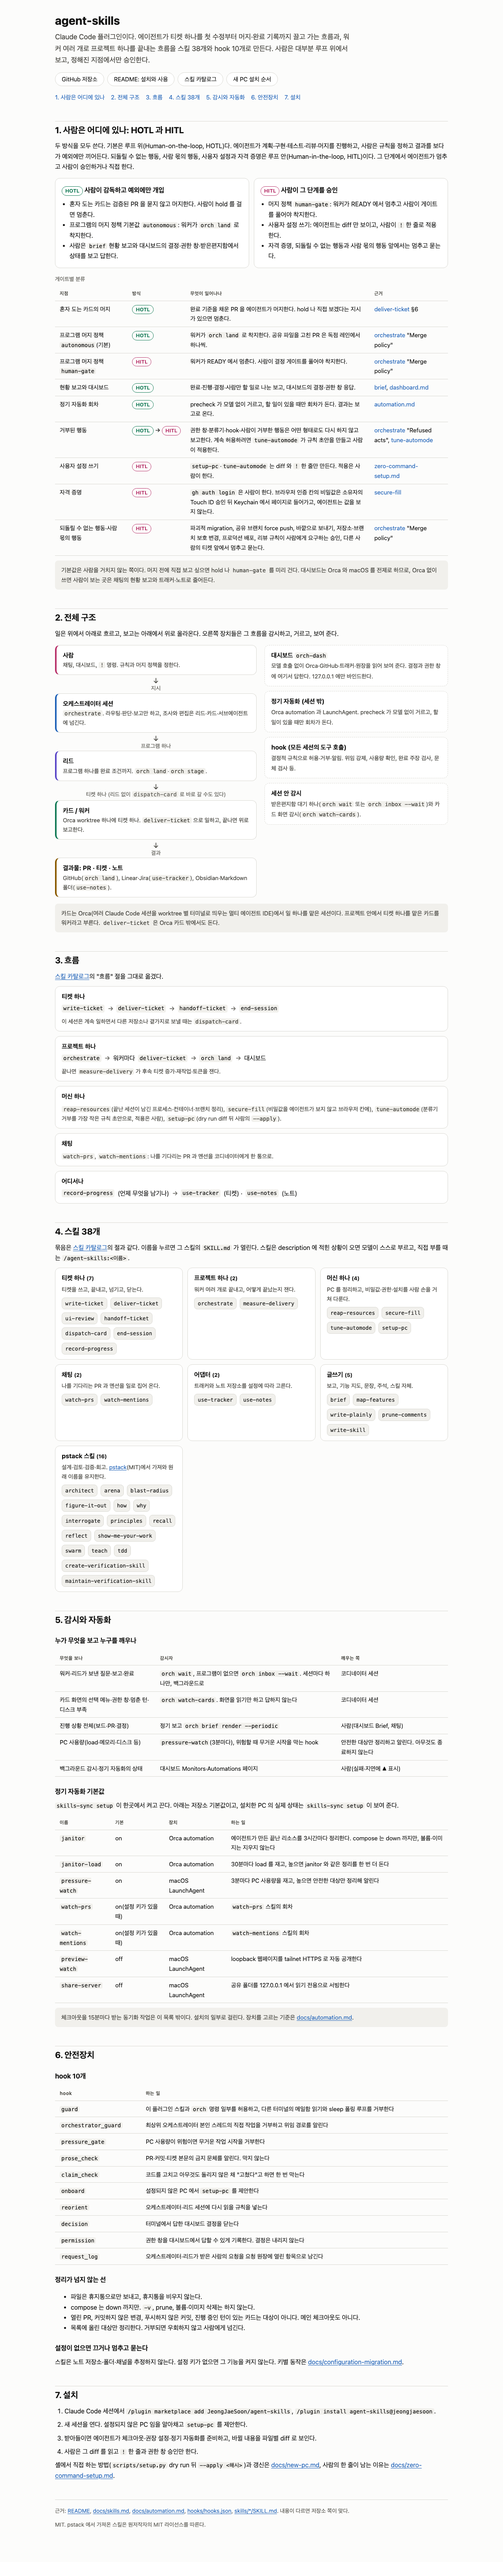
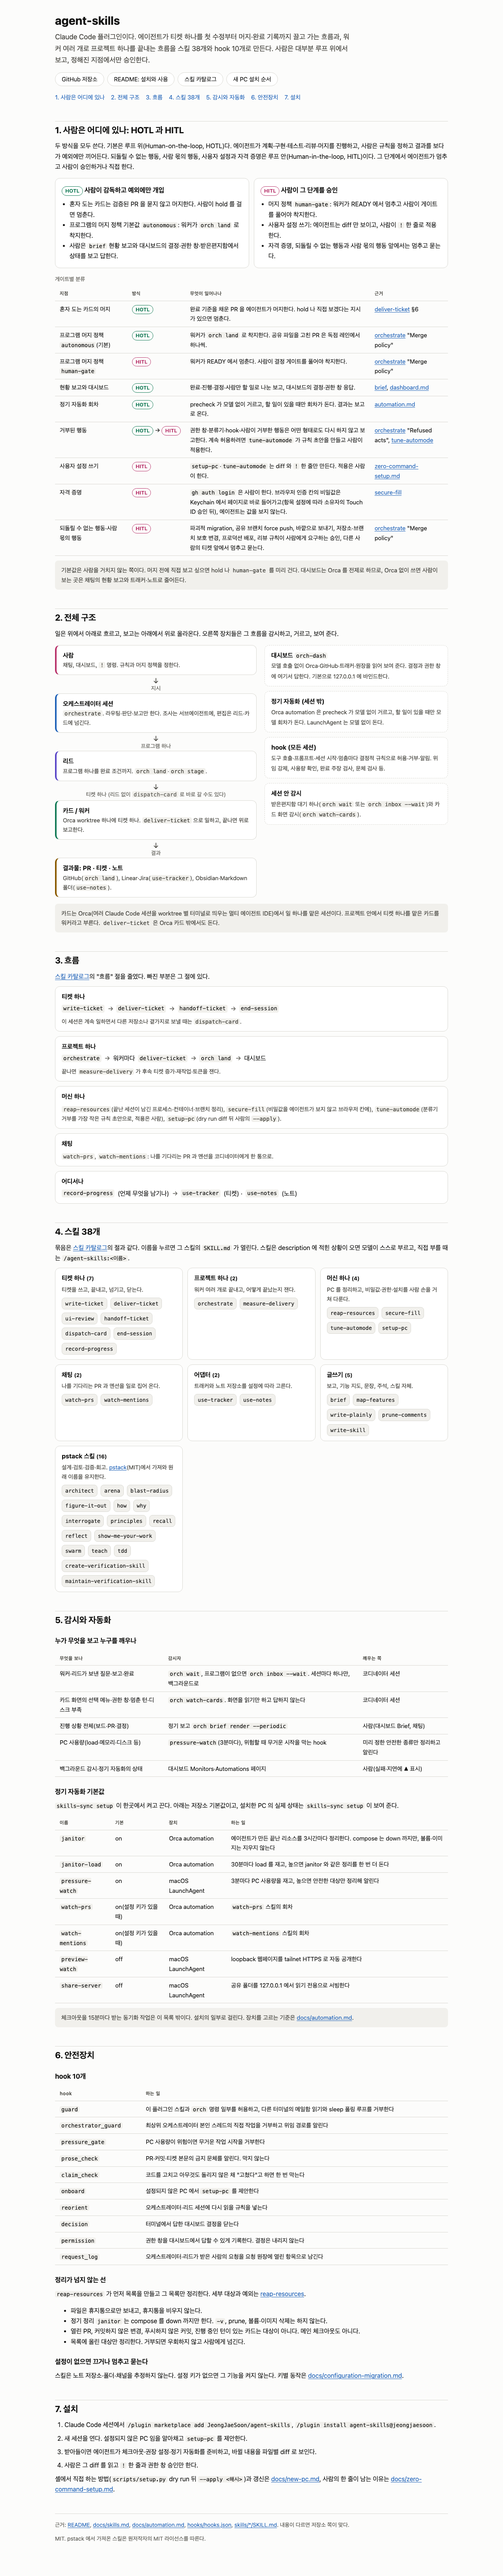
docs(landing): 독립 리뷰 지적을 반영한다
정리 금지선을 janitor 범위로 좁히고, 근거와 다른 문장(pressure 종료, 흐름 절, 오케스트레이터 위임,
대시보드 바인드·macOS 전제, secure-fill 승인, hook 시점, precheck 범위)을 고친다. 다크 테마 대비 때문에
표 안 링크 밑줄을 되돌리고, 흐름 화살표 라벨을 스크린리더에 드러낸다. 라이트 스크린샷을 다시 찍는다.

diff --git a/docs/index.html b/docs/index.html
@@ -38,8 +38,8 @@ code{font:14px/1.4 ui-monospace,SFMono-Regular,Menlo,Consolas,monospace;backgrou
 .links{display:flex;flex-wrap:wrap;gap:8px;margin:0 0 8px;padding:0;list-style:none}
 .links a{display:inline-block;text-decoration:none;border:1px solid var(--line);border-radius:999px;padding:4px 16px;background:var(--card);color:var(--ink);font-size:15px}
 .links a:hover{border-color:var(--accent);color:var(--accent)}
-nav.toc a,td a{text-decoration:none}
-nav.toc a:hover,td a:hover,nav.toc a:focus-visible,td a:focus-visible{text-decoration:underline}
+nav.toc a{text-decoration:none}
+nav.toc a:hover,nav.toc a:focus-visible{text-decoration:underline}
 nav.toc ol{display:flex;flex-wrap:wrap;gap:8px 16px;margin:16px 0 0;padding:0;list-style:none;font-size:15px}
 .note{background:var(--soft);border-radius:8px;padding:12px 16px;color:var(--ink2);font-size:15px;margin:12px 0}
 
@@ -63,7 +63,7 @@ td.kind{white-space:nowrap}
 .node b{display:block;font-size:16px}
 .node span{display:block;color:var(--ink2);font-size:14.5px}
 .arrow{color:var(--muted);text-align:center;font-size:14px;line-height:1.2;padding:4px 0}
-.arrow::before{content:"↓";display:block;font-size:18px;color:var(--ink2)}
+.arrow::before{content:"↓" / "";display:block;font-size:18px;color:var(--ink2)}
 .side{display:flex;flex-direction:column;gap:12px;margin:0;padding:0;list-style:none}
 .side li{background:var(--card);border:1px dashed var(--line);border-radius:12px;padding:12px 16px}
 .side b{display:block}
@@ -171,12 +171,12 @@ footer{color:var(--muted);font-size:14px;margin-top:48px;border-top:1px solid va
 <tr><td>정기 자동화 회차</td><td class="kind"><span class="tag hotl">HOTL</span></td><td>precheck 가 모델 없이 거르고, 할 일이 있을 때만 회차가 돈다. 결과는 보고로 온다.</td><td><a href="https://github.com/JeongJaeSoon/agent-skills/blob/main/docs/automation.md">automation.md</a></td></tr>
 <tr><td>거부된 행동</td><td class="kind"><span class="tag hotl">HOTL</span> → <span class="tag hitl">HITL</span></td><td>권한 창·분류기·hook·사람이 거부한 행동은 어떤 형태로도 다시 하지 않고 보고한다. 계속 허용하려면 <code>tune-automode</code> 가 규칙 초안을 만들고 사람이 적용한다.</td><td><a href="https://github.com/JeongJaeSoon/agent-skills/blob/main/skills/orchestrate/SKILL.md">orchestrate</a> "Refused acts", <a href="https://github.com/JeongJaeSoon/agent-skills/blob/main/skills/tune-automode/SKILL.md">tune-automode</a></td></tr>
 <tr><td>사용자 설정 쓰기</td><td class="kind"><span class="tag hitl">HITL</span></td><td><code>setup-pc</code>·<code>tune-automode</code> 는 diff 와 <code title="Claude Code 입력칸에서 ! 로 시작하는 줄: 사람이 그 세션에서 셸 명령을 직접 실행한다">!</code> 한 줄만 만든다. 적용은 사람이 한다.</td><td><a href="https://github.com/JeongJaeSoon/agent-skills/blob/main/docs/zero-command-setup.md">zero-command-setup.md</a></td></tr>
-<tr><td>자격 증명</td><td class="kind"><span class="tag hitl">HITL</span></td><td><code>gh auth login</code> 은 사람이 한다. 브라우저 인증 칸의 비밀값은 소유자의 Touch ID 승인 뒤 Keychain 에서 페이지로 들어가고, 에이전트는 값을 보지 않는다.</td><td><a href="https://github.com/JeongJaeSoon/agent-skills/blob/main/skills/secure-fill/SKILL.md">secure-fill</a></td></tr>
+<tr><td>자격 증명</td><td class="kind"><span class="tag hitl">HITL</span></td><td><code>gh auth login</code> 은 사람이 한다. 브라우저 인증 칸의 비밀값은 Keychain 에서 페이지로 바로 들어가고(항목 설정에 따라 소유자의 Touch ID 승인 뒤), 에이전트는 값을 보지 않는다.</td><td><a href="https://github.com/JeongJaeSoon/agent-skills/blob/main/skills/secure-fill/SKILL.md">secure-fill</a></td></tr>
 <tr><td>되돌릴 수 없는 행동·사람 몫의 행동</td><td class="kind"><span class="tag hitl">HITL</span></td><td>파괴적 migration, 공유 브랜치 force push, 바깥으로 보내기, 저장소·브랜치 보호 변경, 프로덕션 배포, 리뷰 규칙이 사람에게 요구하는 승인, 다른 사람의 티켓 앞에서 멈추고 묻는다.</td><td><a href="https://github.com/JeongJaeSoon/agent-skills/blob/main/skills/orchestrate/SKILL.md">orchestrate</a> "Merge policy"</td></tr>
 </tbody>
 </table>
 </div>
-<p class="note">기본값은 사람을 거치지 않는 쪽이다. 머지 전에 직접 보고 싶으면 hold 나 <code>human-gate</code> 를 미리 건다. 대시보드는 Orca 와 macOS 를 전제로 하므로, Orca 없이 쓰면 사람이 보는 곳은 채팅의 현황 보고와 트래커·노트로 줄어든다.</p>
+<p class="note">기본값은 사람을 거치지 않는 쪽이다. 머지 전에 직접 보고 싶으면 hold 나 <code>human-gate</code> 를 미리 건다. 대시보드는 Orca 를 전제로 하므로, Orca 없이 쓰면 사람이 보는 곳은 채팅의 현황 보고와 트래커·노트로 줄어든다.</p>
 </section>
 
 <section aria-labelledby="arch">
@@ -185,19 +185,19 @@ footer{color:var(--muted);font-size:14px;margin-top:48px;border-top:1px solid va
 <div class="arch">
   <ol class="chain" aria-label="일이 흐르는 순서">
     <li class="node" style="--c:var(--c-human)"><b>사람</b><span>채팅, 대시보드, <code title="Claude Code 입력칸에서 ! 로 시작하는 줄: 사람이 그 세션에서 셸 명령을 직접 실행한다">!</code> 명령. 규칙과 머지 정책을 정한다.</span></li>
-    <li class="arrow" aria-hidden="true">지시</li>
-    <li class="node" style="--c:var(--c-orch)"><b>오케스트레이터 세션</b><span><code>orchestrate</code>. 라우팅·판단·보고만 하고, 조사와 편집은 리드·카드·서브에이전트에 넘긴다.</span></li>
-    <li class="arrow" aria-hidden="true">프로그램 하나</li>
+    <li class="arrow">지시</li>
+    <li class="node" style="--c:var(--c-orch)"><b>오케스트레이터 세션</b><span><code>orchestrate</code>. 라우팅·판단·보고만 한다. 조사는 서브에이전트에, 편집은 리드·카드에 넘긴다.</span></li>
+    <li class="arrow">프로그램 하나</li>
     <li class="node" style="--c:var(--c-lead)"><b>리드</b><span>프로그램 하나를 완료 조건까지. <code>orch land</code>·<code>orch stage</code>.</span></li>
-    <li class="arrow" aria-hidden="true">티켓 하나 (리드 없이 <code>dispatch-card</code> 로 바로 갈 수도 있다)</li>
+    <li class="arrow">티켓 하나 (리드 없이 <code>dispatch-card</code> 로 바로 갈 수도 있다)</li>
     <li class="node" style="--c:var(--c-card)"><b>카드 / 워커</b><span>Orca worktree 하나에 티켓 하나. <code>deliver-ticket</code> 으로 일하고, 끝나면 위로 보고한다.</span></li>
-    <li class="arrow" aria-hidden="true">결과</li>
+    <li class="arrow">결과</li>
     <li class="node" style="--c:var(--c-out)"><b>결과물: PR · 티켓 · 노트</b><span>GitHub(<code>orch land</code>), Linear·Jira(<code>use-tracker</code>), Obsidian·Markdown 폴더(<code>use-notes</code>).</span></li>
   </ol>
   <ul class="side" aria-label="흐름 옆에서 도는 장치">
-    <li><b>대시보드 <code>orch-dash</code></b><span>모델 호출 없이 Orca·GitHub·트래커·원장을 읽어 보여 준다. 결정과 권한 창에 여기서 답한다. 127.0.0.1 에만 바인드한다.</span></li>
-    <li><b>정기 자동화 (세션 밖)</b><span>Orca automation 과 LaunchAgent. precheck 가 모델 없이 거르고, 할 일이 있을 때만 회차가 돈다.</span></li>
-    <li><b>hook (모든 세션의 도구 호출)</b><span>결정적 규칙으로 허용·거부·알림. 위임 강제, 사용량 확인, 완료 주장 검사, 문체 검사 등.</span></li>
+    <li><b>대시보드 <code>orch-dash</code></b><span>모델 호출 없이 Orca·GitHub·트래커·원장을 읽어 보여 준다. 결정과 권한 창에 여기서 답한다. 기본으로 127.0.0.1 에 바인드한다.</span></li>
+    <li><b>정기 자동화 (세션 밖)</b><span>Orca automation 은 precheck 가 모델 없이 거르고, 할 일이 있을 때만 모델 회차가 돈다. LaunchAgent 는 모델 없이 돈다.</span></li>
+    <li><b>hook (모든 세션)</b><span>도구 호출·프롬프트·세션 시작·멈춤마다 결정적 규칙으로 허용·거부·알림. 위임 강제, 사용량 확인, 완료 주장 검사, 문체 검사 등.</span></li>
     <li><b>세션 안 감시</b><span>받은편지함 대기 하나(<code>orch wait</code> 또는 <code>orch inbox --wait</code>)와 카드 화면 감시(<code>orch watch-cards</code>).</span></li>
   </ul>
 </div>
@@ -206,7 +206,7 @@ footer{color:var(--muted);font-size:14px;margin-top:48px;border-top:1px solid va
 
 <section aria-labelledby="flows">
 <h2 id="flows">3. 흐름</h2>
-<p><a href="https://github.com/JeongJaeSoon/agent-skills/blob/main/docs/skills.md">스킬 카탈로그</a>의 "흐름" 절을 그대로 옮겼다.</p>
+<p><a href="https://github.com/JeongJaeSoon/agent-skills/blob/main/docs/skills.md">스킬 카탈로그</a>의 "흐름" 절을 줄였다. 빠진 부분은 그 절에 있다.</p>
 <div class="flows">
   <div class="flow"><b>티켓 하나</b>
     <ol class="steps"><li><code>write-ticket</code></li><li><code>deliver-ticket</code></li><li><code>handoff-ticket</code></li><li><code>end-session</code></li></ol>
@@ -299,7 +299,7 @@ footer{color:var(--muted);font-size:14px;margin-top:48px;border-top:1px solid va
 <tr><td>워커·리드가 보낸 질문·보고·완료</td><td><code>orch wait</code>, 프로그램이 없으면 <code>orch inbox --wait</code>. 세션마다 하나만, 백그라운드로</td><td>코디네이터 세션</td></tr>
 <tr><td>카드 화면의 선택 메뉴·권한 창·멈춘 턴·디스크 부족</td><td><code>orch watch-cards</code>. 화면을 읽기만 하고 답하지 않는다</td><td>코디네이터 세션</td></tr>
 <tr><td>진행 상황 전체(보드·PR·결정)</td><td>정기 보고 <code>orch brief render --periodic</code></td><td>사람(대시보드 Brief, 채팅)</td></tr>
-<tr><td>PC 사용량(load·메모리·디스크 등)</td><td><code>pressure-watch</code>(3분마다), 위험할 때 무거운 시작을 막는 hook</td><td>안전한 대상만 정리하고 알린다. 아무것도 종료하지 않는다</td></tr>
+<tr><td>PC 사용량(load·메모리·디스크 등)</td><td><code>pressure-watch</code>(3분마다), 위험할 때 무거운 시작을 막는 hook</td><td>미리 정한 안전한 종류만 정리하고 알린다</td></tr>
 <tr><td>백그라운드 감시·정기 자동화의 상태</td><td>대시보드 Monitors·Automations 페이지</td><td>사람(실패·지연에 ▲ 표시)</td></tr>
 </tbody>
 </table>
@@ -345,9 +345,10 @@ footer{color:var(--muted);font-size:14px;margin-top:48px;border-top:1px solid va
 </table>
 </div>
 <h3>정리가 넘지 않는 선</h3>
+<p><code>reap-resources</code> 가 먼저 목록을 만들고 그 목록만 정리한다. 세부 대상과 예외는 <a href="https://github.com/JeongJaeSoon/agent-skills/blob/main/skills/reap-resources/SKILL.md">reap-resources</a>.</p>
 <ul>
   <li>파일은 휴지통으로만 보내고, 휴지통을 비우지 않는다.</li>
-  <li>compose 는 down 까지만. <code>-v</code>, prune, 볼륨·이미지 삭제는 하지 않는다.</li>
+  <li>정기 정리 <code>janitor</code> 는 compose 를 down 까지만 한다. <code>-v</code>, prune, 볼륨·이미지 삭제는 하지 않는다.</li>
   <li>열린 PR, 커밋하지 않은 변경, 푸시하지 않은 커밋, 진행 중인 턴이 있는 카드는 대상이 아니다. 메인 체크아웃도 아니다.</li>
   <li>목록에 올린 대상만 정리한다. 거부되면 우회하지 않고 사람에게 넘긴다.</li>
 </ul>
